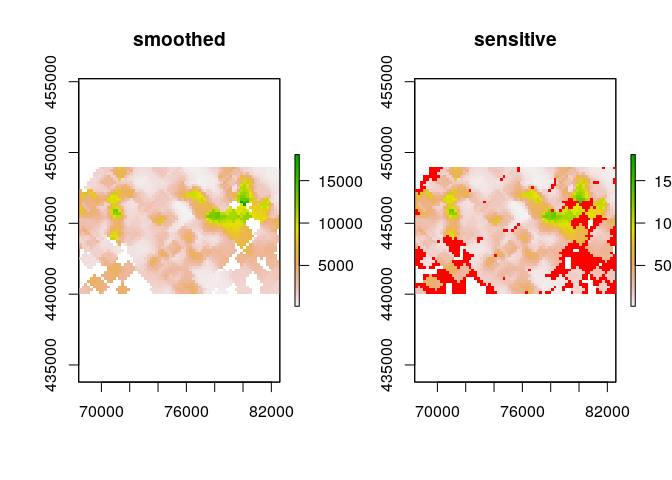
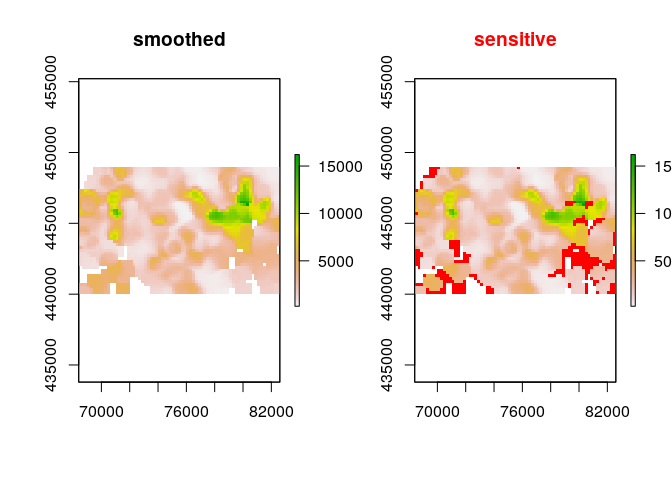
tweaking around

diff --git a/README.md b/README.md
@@ -11,9 +11,9 @@ status](https://ci.appveyor.com/api/projects/status/github/edwindj/sdcSpatial?br
 # sdcSpatial
 
 *Publishing a map created using standard rastering or density estimation
-can reveal sensitive values at locations*. `sdcSpatial` is an opensource
-R package to create spatial density (raster) maps from point data while
-protecting the privacy of individual observations.
+can reveal sensitive values*. `sdcSpatial` is an opensource R package to
+create spatial density (raster) maps from point data while protecting
+the privacy of individual observations.
 
 `sdcSpatial` offers a `sdc_raster` class that allows to:
 
@@ -41,8 +41,12 @@ library(sdcSpatial)
 library(raster)
 #> Loading required package: sp
 
-# create a sdc_raster from point data with raster with resolution of 200m
-production <- sdc_raster(enterprises, variable = "production", r = 200, min_count = 3)
+data(enterprises)
+
+# create a sdc_raster from point data with raster with
+# a resolution of 200m
+production <- sdc_raster(enterprises, variable = "production"
+                        , r = 200, min_count = 3)
 
 print(production)
 #> numeric sdc_raster object: 
@@ -86,7 +90,7 @@ plot(smoothed)
 
 # what is the sensitivy fraction?
 sensitivity_score(smoothed)
-#> [1] 0.1779744
+#> [1] 0.09800066
 
 # let's remove the sensitive data.
 smoothed_safe <- remove_sensitive(smoothed, min_count = 3)
@@ -101,14 +105,17 @@ plot(smoothed_safe, zlim=zlim)
 production_mean <- mean(smoothed_safe)
 production_total <- sum(smoothed_safe)
 
-# and cread
-filledContour(production_mean, nlevels = 6, main = "Mean production")
+# and create a contour plot
+raster::filledContour(production_mean, nlevels = 6, main = "Mean production")
 ```
 
 <img src="man/figures/README-example-5.png" width="100%" />
 
 ``` r
-filledContour(production_total, nlevels = 10, col = hcl.colors(11), main="Total production")
+
+raster::filledContour(production_total, nlevels = 15
+             , col = hcl.colors(21, rev=TRUE)
+             , main="Total production")
 ```
 
 <img src="man/figures/README-example-6.png" width="100%" />
